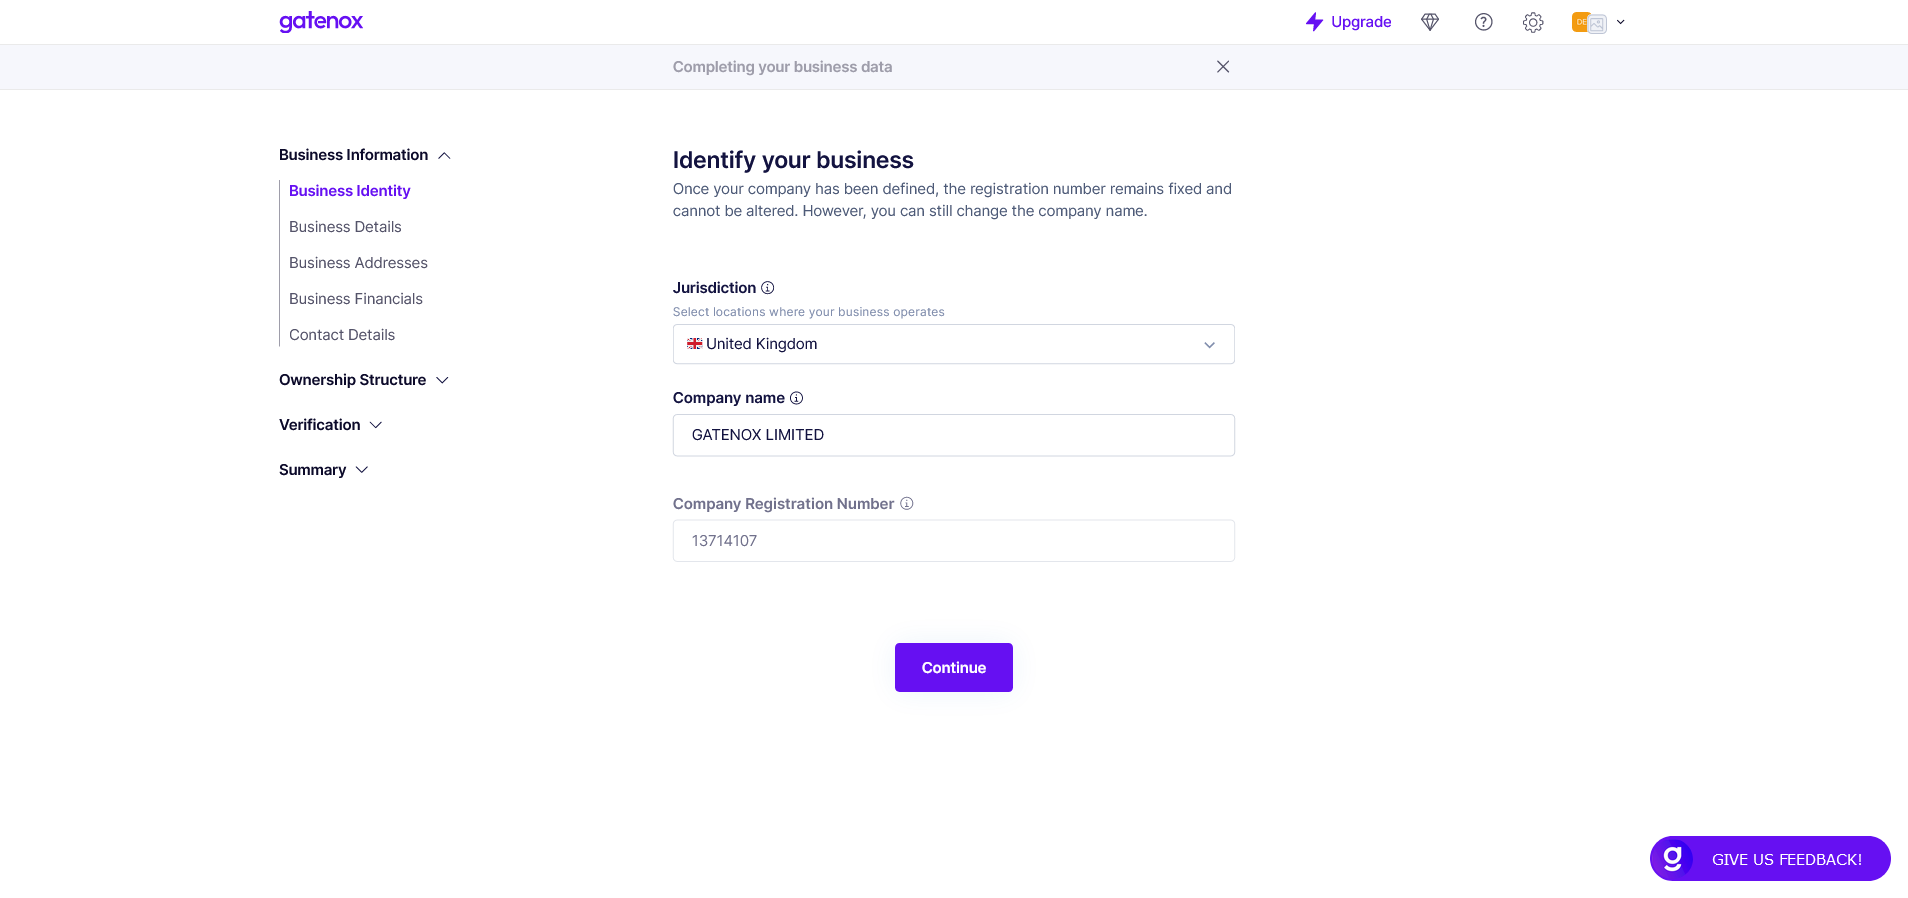
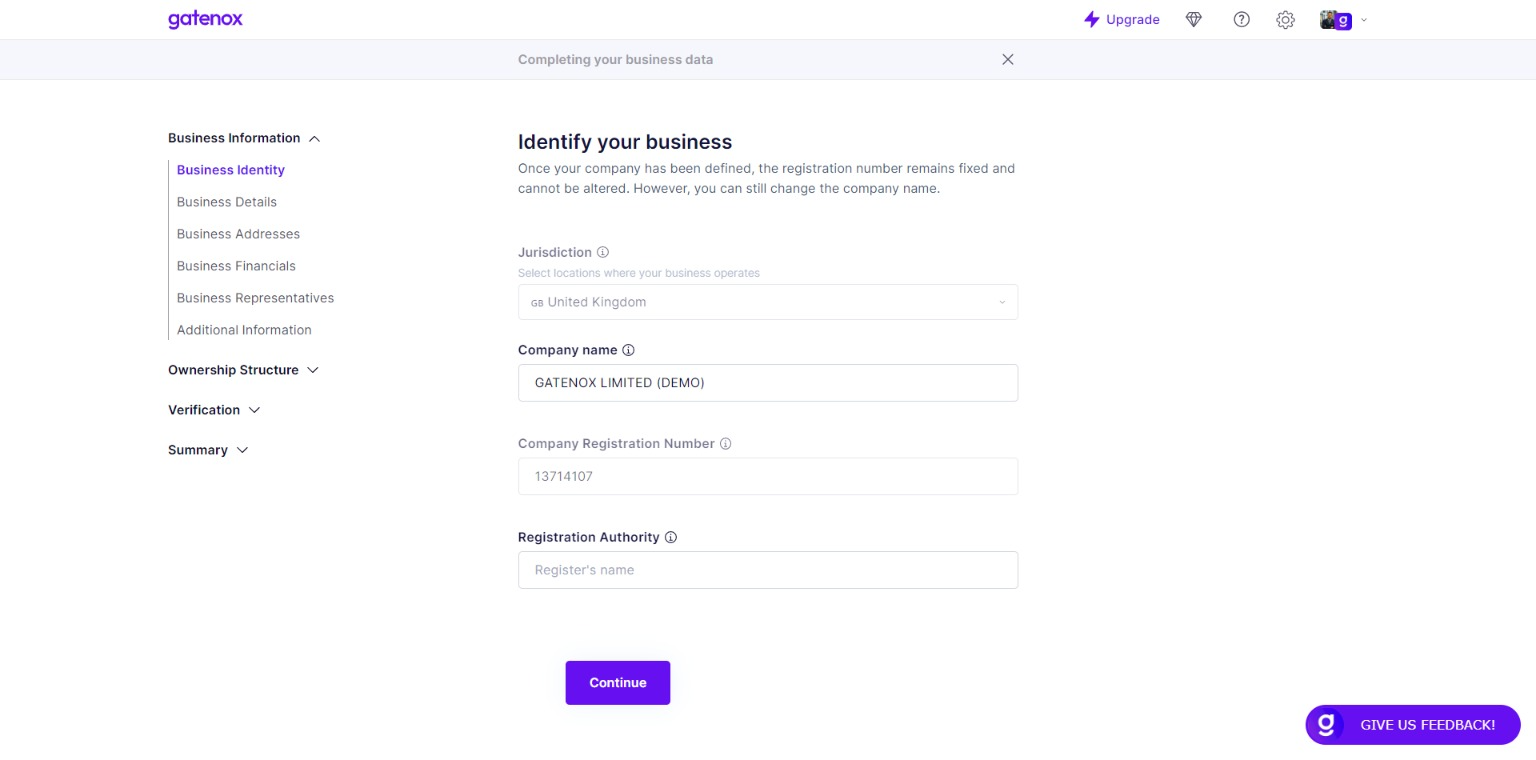
GITBOOK-124: New fields in wizard

diff --git a/id-node-how-to/create-and-complete-company-profile/manage-company-details/business-details.md b/id-node-how-to/create-and-complete-company-profile/manage-company-details/business-details.md
@@ -15,10 +15,11 @@ Here is a brief description of each field:
 1. Trading name: This field allows users to enter the name under which their company conducts its business. It may be different from the legal name of the company.
 2. Date of Incorporation: This field allows users to enter the date on which their company was officially incorporated. This is important for legal and regulatory compliance.
 3. Business Type: This field allows users to specify the type of business their company engages in. This could include manufacturing, retail, service, or other types of businesses.
-4. Business Size: This field allows users to indicate the size of their company in terms of the number of employees, annual revenue, or other relevant metrics.
-5. Business description: This field allows users to provide a brief overview of their company, including its history, mission, and values.
-6. Product and Services Description: This field allows users to describe the products or services that their company offers. This could include information about pricing, features, and benefits.
-7. Locations of Activity: This field allows users to specify the geographical locations where their company operates. This could include specific cities, regions, or countries.
+4. Public company listed on stock exchange - this filed indicates, if company is listed on stock exchange.
+5. Business Size: This field allows users to indicate the size of their company in terms of the number of employees, annual revenue, or other relevant metrics.
+6. Business description: This field allows users to provide a brief overview of their company, including its history, mission, and values.
+7. Product and Services Description: This field allows users to describe the products or services that their company offers. This could include information about pricing, features, and benefits.
+8. Locations of Activity: This field allows users to specify the geographical locations where their company operates. This could include specific cities, regions, or countries.
 
 <figure><img src="../../../.gitbook/assets/BusinessDetialsNW.png" alt="Business Details"><figcaption><p>Business Details</p></figcaption></figure>
 

diff --git a/id-node-how-to/create-and-complete-company-profile/manage-company-details/additional-information.md b/id-node-how-to/create-and-complete-company-profile/manage-company-details/additional-information.md
@@ -1,0 +1,21 @@
+# Additional information
+
+The "Additional Information" screen is where users can provide additional details required during the onboarding process.
+
+#### Fields
+
+{% hint style="warning" %}
+The fields listed in documentation may differ from those displayed in your profile. The specific fields required by the company you are onboarding with depend on their specific data needs.
+{% endhint %}
+
+Here is a brief description of fields:
+
+1. Notice of Prosecution: Users are asked to indicate whether they or any of the directors, shareholders, or ultimate beneficiary owners have received a notice of prosecution or have any prosecutions pending. This helps gather information regarding any ongoing legal proceedings.
+2. Ongoing Investigations or Inquiries: Users are asked to disclose if there are any ongoing investigations or inquiries, either conducted by or on behalf of any government or other body, regarding the affairs of their company, subsidiaries, or parent companies. This helps assess any potential legal or regulatory issues.
+3. Criminal Convictions: Users are required to disclose whether they or any of the directors, shareholders, or ultimate beneficiary owners have had any criminal convictions within the last five years. This information is crucial for assessing the integrity and compliance of the individuals involved.
+4. License Required: Users are prompted to specify whether a license is required to conduct their business operations. If applicable, they need to provide the license details in the subsequent fields.
+5. License Number: Users should enter the unique identification number associated with the required license.
+6. License Authority Name: Users should provide the name of the authority or regulatory body that issued the license.
+7. License Dates: Users should enter the date of issue and the date of expiry of the license.
+
+<figure><img src="../../../.gitbook/assets/AdditionalInformationNW.png" alt="Additional information"><figcaption><p>Additional information</p></figcaption></figure>

diff --git a/id-node-how-to/create-and-complete-company-profile/manage-company-details/business-financials.md b/id-node-how-to/create-and-complete-company-profile/manage-company-details/business-financials.md
@@ -15,6 +15,12 @@ Here is a brief description of each field:
 1. TAX number: This field allows users to enter their company's tax identification number, which is typically assigned by the government.
 2. Company sources of funds: This field allows users to specify the various sources of funding for their company, such as investments, loans, or revenue from sales.
 3. Crypto Addresses: This field allows users to enter any cryptocurrency addresses associated with their company. This may include addresses for Bitcoin, Ethereum, or other digital currencies.
+4. "Bank account" section:
+   * Bank's name: This field refers to the name of the bank where the account is held. It represents the financial institution that provides the banking services and holds the funds in the account.
+   * Bank's address: This field specifies the physical address of the bank where the account is held. It includes details such as the street address, city, state/province, and postal code. The bank's address is important for identification and communication purposes.
+   * &#x20;Is IBAN: This field indicates whether the provided bank account number is in the International Bank Account Number (IBAN) format. IBAN is a standardized format used for identifying bank accounts internationally. If this field is marked as "Yes," it means the provided bank account number is in IBAN format.
+   * Account number: This field refers to the unique identification number assigned to a bank account. It is a combination of digits that identifies the specific account held with a financial institution.
+   * Account holder: This field represents the name of the individual or entity that owns or holds the bank account. It could be an individual's name or the name of a company or organization.
 
 <figure><img src="../../../.gitbook/assets/BusinessFinancialsNW.png" alt="Business Financials"><figcaption><p>Business Financials</p></figcaption></figure>
 

diff --git a/id-node-how-to/create-and-complete-company-profile/manage-company-details/business-identity.md b/id-node-how-to/create-and-complete-company-profile/manage-company-details/business-identity.md
@@ -13,6 +13,7 @@ Here is a brief description of each field:
 1. Jurisdiction: This field allows users to select the legal jurisdiction in which their company is registered. This could be a country, state, or province, depending on the user's location.
 2. Company name: This field is where users can enter the official name of their company. This should be the name that appears on official documents and legal filings.
 3. Company Registration Number: This field allows users to enter the unique registration number assigned to their company by the relevant government agency. This number is used to identify the company and may be required for certain types of transactions or filings.
+4. Registration Authority - This field refers to the specific organization or governmental body responsible for overseeing the registration and regulation of companies within a particular jurisdiction. It is the entity that maintains the official records of registered companies and ensures compliance with legal requirements. The Registration Authority's name provided in this field indicates the specific authority that has jurisdiction over the company being referenced.
 
 <figure><img src="../../../.gitbook/assets/BusinessIdentityNW.png" alt="Business Identity"><figcaption><p>Business Identity</p></figcaption></figure>
 

diff --git a/SUMMARY.md b/SUMMARY.md
@@ -40,6 +40,7 @@
     * [Business Addresses](id-node-how-to/create-and-complete-company-profile/manage-company-details/business-addresses.md)
     * [Business Financials](id-node-how-to/create-and-complete-company-profile/manage-company-details/business-financials.md)
     * [Business Representatives](id-node-how-to/create-and-complete-company-profile/manage-company-details/business-representatives.md)
+    * [Additional information](id-node-how-to/create-and-complete-company-profile/manage-company-details/additional-information.md)
     * [Contact Details](id-node-how-to/create-and-complete-company-profile/manage-company-details/contact-details.md)
   * [Create / modify ownership structure](id-node-how-to/create-and-complete-company-profile/create-modify-ownership-structure/README.md)
     * [Shareholders](id-node-how-to/create-and-complete-company-profile/create-modify-ownership-structure/shareholders.md)
